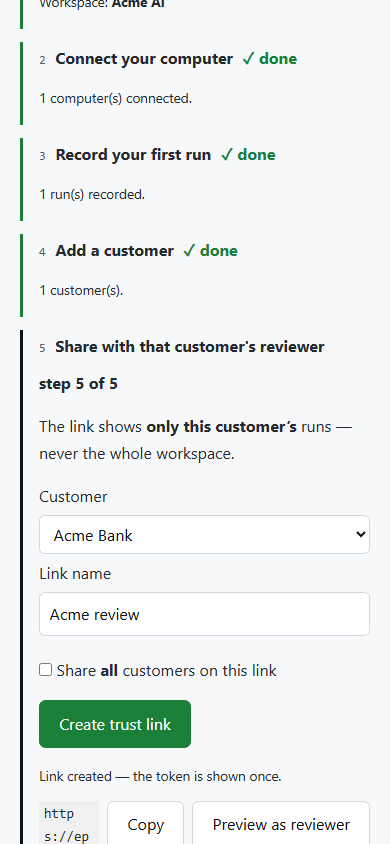
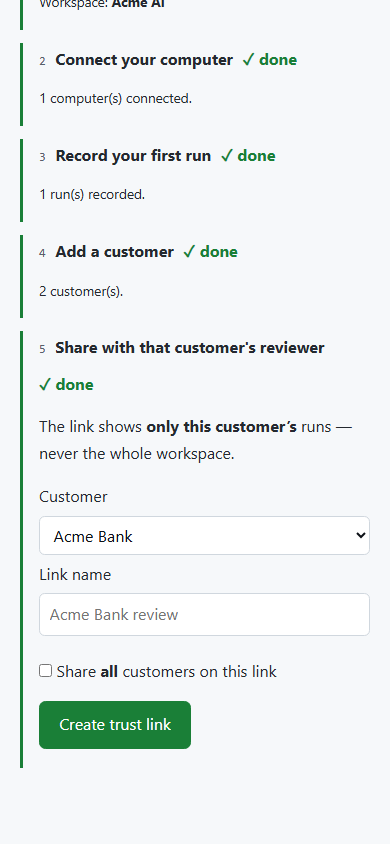
Dashboard v2: ack-gated #reveal panel outside render tree
Reviewer found the secret still vanished: the guide re-rendered to step 5
and wiped the secret; the test only caught a sub-second flash. Fix:

- Secrets/tokens render only into #reveal, a static panel outside #guide,
  #steps and the tab divs, so render() and loadAll() can never touch them.
- S.reveal holds the single unacknowledged secret; currentStep clamps the
  guide (step 4 for inbox, step 5 for link) while it is set, so polling
  and loadAll() cannot advance past it.
- 'I've saved it' is the only ack path: clears S.reveal and reloads.
- Same gate for inbox secret, rotate result, trust-link token, CI key.
- Guided browser test now asserts 12 s persistence with the next step
  absent (link form for inbox, dashboard for link), then acks and asserts
  advance. Covers rotate in the Customers tab the same way.

diff --git a/cloud/src/index.ts b/cloud/src/index.ts
@@ -98,6 +98,7 @@ app.get("/", async (c) => {
     `<p>Signed in as <strong>${esc(email)}</strong>.</p>` +
     `<form method="post" action="/auth/logout"><button type="submit" class="btn btn-sec">Sign out</button></form>` +
     `<p><label for="org-pick">Workspace</label><select id="org-pick"></select></p>` +
+    `<div id="reveal" style="display:none"></div>` +
     `<div id="loading"><p class="mut">Loading your workspaces…</p></div>` +
     `<div id="guide" style="display:none">` +
     `<span class="tag">Guided start</span><h2>Get set up in 5 steps</h2>` +
@@ -119,7 +120,7 @@ app.get("/", async (c) => {
     `</div>`;
   const script = [
     `var TRUST_ORIGIN=${JSON.stringify(TRUST_ORIGIN)};`,
-    `var S={orgs:[],org:null,agents:[],keys:null,runs:[],inboxes:[],links:null,linksForbidden:false,revealed:{}};`,
+    `var S={orgs:[],org:null,agents:[],keys:null,runs:[],inboxes:[],links:null,linksForbidden:false,reveal:null};`,
     `var timers=[];`,
     `function esc(s){return String(s==null?"":s).replace(/[&<>"']/g,function(ch){return {"&":"&amp;","<":"&lt;",">":"&gt;",'"':"&quot;","'":"&#39;"}[ch];});}`,
     `function localTime(iso){try{var d=new Date(iso);if(isNaN(d.getTime())){return iso;}return d.toLocaleString();}catch(e){return iso;}}`,
@@ -138,7 +139,8 @@ app.get("/", async (c) => {
     `document.getElementById("org-pick").onchange=function(){S.org=this.value||null;if(S.org){loadAll();}else{render();}};`,
     `function loadAll(){stopTimers();var id=S.org;Promise.all([api("/v1/orgs/"+id+"/agents"),api("/v1/orgs/"+id+"/api-keys"),api("/v1/orgs/"+id+"/artifacts"),api("/v1/orgs/"+id+"/inboxes"),api("/v1/orgs/"+id+"/share-links")]).then(function(rs){S.agents=(rs[0].ok&&rs[0].json.agents)||[];S.keys=rs[1].ok?(rs[1].json.keys||[]):(rs[1].status===403?"forbidden":null);S.runs=(rs[2].ok&&rs[2].json.artifacts)||[];S.inboxes=(rs[3].ok&&rs[3].json.inboxes)||[];if(rs[4].ok){S.links=rs[4].json.links||[];S.linksForbidden=false;}else{S.links=null;S.linksForbidden=rs[4].status===403;}render();});}`,
     `function milestones(){return {org:!!S.org,key:!!(S.keys&&S.keys.length),run:S.runs.length>0,customer:S.inboxes.length>0,link:!!(S.links&&S.links.length)};}`,
-    `function currentStep(m){if(!m.org){return 1;}if(!m.key){return 2;}if(!m.run){return 3;}if(!m.customer){return 4;}if(!m.link){return 5;}return 6;}`,
+    `function currentStep(m){var s=currentStepRaw(m);if(S.reveal){if(S.reveal.kind==="inbox"&&s>4){return 4;}if(S.reveal.kind==="link"&&s>5){return 5;}}return s;}`,
+    `function currentStepRaw(m){if(!m.org){return 1;}if(!m.key){return 2;}if(!m.run){return 3;}if(!m.customer){return 4;}if(!m.link){return 5;}return 6;}`,
     `function render(){stopTimers();var m=milestones();var step=currentStep(m);document.getElementById("loading").style.display="none";if(step>5){renderDash();return;}document.getElementById("dash").style.display="none";document.getElementById("guide").style.display="";renderGuide(m,step);}`,
     `function stepShell(n,title,state,inner){var mark=state==="done"?'<span class="mark done">\\u2713 done</span>':(state==="current"?'<span class="mark">step '+n+' of 5</span>':'<span class="mark">locked</span>');return '<div class="step '+state+'"><div class="stephead"><span class="stepnum">'+n+'</span><strong>'+title+'</strong>'+mark+'</div><div class="stepbody">'+inner+'</div></div>';}`,
     `function renderGuide(m,step){var h="";`,
@@ -165,27 +167,27 @@ app.get("/", async (c) => {
     `if(nm){var sl=byId("org-slug");var touched=false;sl.oninput=function(){touched=true;};nm.oninput=function(){if(!touched){sl.value=slugify(nm.value);}};byId("org-go").onclick=function(){createOrg(nm.value,sl.value||slugify(nm.value),byId("org-msg"));};}`,
     `var c1=byId("s2-c1b");if(c1){c1.onclick=function(){copyText(byId("s2-c1").textContent,byId("s2-msg"));};}`,
     `var c3=byId("s3-cb");if(c3){c3.onclick=function(){copyText(byId("s3-c").textContent,byId("s3-msg"));};}`,
-    `var cg=byId("cust-go");if(cg){cg.onclick=function(){var l=byId("cust-name").value.trim();if(!l){byId("cust-msg").textContent="Give the customer a name first.";return;}byId("cust-msg").textContent="Creating…";createCustomer(l,byId("cust-msg"),byId("cust-env"),function(){loadAllKeepSecret("cust-env","cust-msg");});};var _ce=byId("cust-env");if(_ce&&Object.keys(S.revealed||{}).length){_ce.innerHTML=revealedHtml();}}`,
-    `function loadAllKeepSecret(envId,msgId){var id=S.org;Promise.all([api("/v1/orgs/"+id+"/agents"),api("/v1/orgs/"+id+"/api-keys"),api("/v1/orgs/"+id+"/artifacts"),api("/v1/orgs/"+id+"/inboxes"),api("/v1/orgs/"+id+"/share-links")]).then(function(rs){S.agents=(rs[0].ok&&rs[0].json.agents)||[];S.keys=rs[1].ok?(rs[1].json.keys||[]):(rs[1].status===403?"forbidden":null);S.runs=(rs[2].ok&&rs[2].json.artifacts)||[];S.inboxes=(rs[3].ok&&rs[3].json.inboxes)||[];if(rs[4].ok){S.links=rs[4].json.links||[];S.linksForbidden=false;}else{S.links=null;S.linksForbidden=rs[4].status===403;}render();var e2=byId(envId);if(e2&&Object.keys(S.revealed||{}).length){e2.innerHTML=revealedHtml();}var m2=byId(msgId);if(m2&&Object.keys(S.revealed||{}).length&&!m2.textContent){m2.textContent="Customer added.";}});}`,
-    `var la=byId("link-all");if(la){la.onchange=function(){byId("link-warn").style.display=la.checked?"":"none";};}`,
+    `var cg=byId("cust-go");if(cg){cg.onclick=function(){var l=byId("cust-name").value.trim();if(!l){byId("cust-msg").textContent="Give the customer a name first.";return;}byId("cust-msg").textContent="Creating…";createCustomer(l,byId("cust-msg"),byId("cust-env"),function(){loadAll();});};}`,
+        `var la=byId("link-all");if(la){la.onchange=function(){byId("link-warn").style.display=la.checked?"":"none";};}`,
     `var lg=byId("link-go");if(lg){lg.onclick=function(){createLink(byId("link-cust").value,byId("link-label").value.trim(),byId("link-all").checked,byId("link-msg"),byId("link-out"),function(){loadAll();});};}`,
     `}`,
     `function createOrg(name,slug,msgEl){api("/v1/orgs",{method:"POST",body:{name:name,slug:slug}}).then(function(x){if(!x.ok){msgEl.textContent=friendlyErr("creating the workspace",x.status,x.json);return;}msgEl.textContent="Workspace created.";S.org=x.json.id;var pick=byId("org-pick");var el=document.createElement("option");el.value=x.json.id;el.textContent=x.json.name;pick.appendChild(el);pick.value=x.json.id;loadAll();});}`,
-    `function showSecret(outEl,inbox,label,msgEl){S.revealed[inbox.id]={url:inbox.url,secret:inbox.secret,label:label||inbox.id};outEl.innerHTML='<div class="warn small">Save this now — the secret is shown once, then never again.</div><p><label>Paste into the recorder\\u2019s environment</label></p><div class="copyrow"><code>EPI_WITNESS_URL='+esc(inbox.url)+'</code><button type="button" class="btn btn-sec" data-copy="url">Copy</button></div><div class="copyrow"><code>EPI_WITNESS_SECRET='+esc(inbox.secret)+'</code><button type="button" class="btn btn-sec" data-copy="secret">Copy</button></div>';var btns=outEl.querySelectorAll("button[data-copy]");btns[0].onclick=function(){copyText("EPI_WITNESS_URL="+inbox.url,msgEl);};btns[1].onclick=function(){copyText("EPI_WITNESS_SECRET="+inbox.secret,msgEl);};}`,
-    `function revealedHtml(){var ids=Object.keys(S.revealed||{});if(!ids.length){return "";}return ids.map(function(id){var r=S.revealed[id];return '<div class="warn small">Saved secret for <strong>'+esc(r.label||id)+'</strong> — shown once, kept on screen until you leave. Update EPI_WITNESS_SECRET everywhere that reports for this customer.</div><div class="copyrow"><code>EPI_WITNESS_URL='+esc(r.url)+'</code></div><div class="copyrow"><code>EPI_WITNESS_SECRET='+esc(r.secret)+'</code></div>';}).join("");}`,
-    `function createCustomer(label,msgEl,outEl,done){api("/v1/orgs/"+S.org+"/inboxes",{method:"POST",body:{customer_label:label}}).then(function(x){if(!x.ok){msgEl.textContent=friendlyErr("adding the customer",x.status,x.json);return null;}return x.json;}).then(function(inbox){if(!inbox){return;}ensureAgent(label).then(function(agent){if(!agent){msgEl.textContent="Inbox created, but the recorder name is taken by something else — ask an owner.";if(done){done();}return;}msgEl.textContent="Customer added.";showSecret(outEl,inbox,label,msgEl);api("/v1/orgs/"+S.org+"/inboxes").then(function(y){if(y.ok){S.inboxes=y.json.inboxes||[];}if(done){done();}renderRevealed(outEl);});});});}`,
-    `function renderRevealed(outEl){if(!outEl){return;}var ids=Object.keys(S.revealed||{});if(!ids.length){return;}var last=S.revealed[ids[ids.length-1]];if(!last){return;}if(outEl.innerHTML&&outEl.innerHTML.indexOf("EPI_WITNESS_SECRET=")>=0){return;}outEl.innerHTML='<div class="warn small">Save this now — the secret is shown once, then never again.</div><p><label>Paste into the recorder\\u2019s environment</label></p><div class="copyrow"><code>EPI_WITNESS_URL='+esc(last.url)+'</code></div><div class="copyrow"><code>EPI_WITNESS_SECRET='+esc(last.secret)+'</code></div>';}`,
-    `function rotateSecret(inboxId,label,msgEl,outEl){if(!confirm("Rotate witness secret for "+label+"? The old secret stops working immediately. Update \`EPI_WITNESS_SECRET\` on every machine that reports for this customer. Runs already witnessed stay valid.")){return;}msgEl.textContent="Rotating…";api("/v1/orgs/"+S.org+"/inboxes/"+inboxId+"/rotate",{method:"POST"}).then(function(x){if(!x.ok){msgEl.textContent=friendlyErr("rotating the secret",x.status,x.json);return;}msgEl.textContent="Rotated — old secret no longer works.";showSecret(outEl,x.json,label,msgEl);api("/v1/orgs/"+S.org+"/inboxes").then(function(y){if(y.ok){S.inboxes=y.json.inboxes||[];}renderCustomers();var fresh=document.getElementById("tab-rotate-out");if(fresh){showSecret(fresh,x.json,label,msgEl);}});});}`,
+    `function setReveal(obj){S.reveal=obj||null;renderReveal();}`,
+    `function renderReveal(){var box=document.getElementById("reveal");if(!box){return;}var r=S.reveal;if(!r){box.style.display="none";box.innerHTML="";return;}box.style.display="";var h="";if(r.kind==="inbox"){h+='<div class="warn small">Save this now \u2014 the secret is shown once, then never again.</div><p><label>Paste into the recorder\u2019s environment</label></p><div class="copyrow"><code>EPI_WITNESS_URL='+esc(r.url)+'</code><button type="button" class="btn btn-sec" data-c="url">Copy</button></div><div class="copyrow"><code>EPI_WITNESS_SECRET='+esc(r.secret)+'</code><button type="button" class="btn btn-sec" data-c="secret">Copy</button></div>';}else if(r.kind==="rotate"){h+='<div class="warn small">Rotated \u2014 old secret no longer works. Save the new secret now; it is shown once.</div><p><label>Paste into the recorder\u2019s environment</label></p><div class="copyrow"><code>EPI_WITNESS_URL='+esc(r.url)+'</code><button type="button" class="btn btn-sec" data-c="url">Copy</button></div><div class="copyrow"><code>EPI_WITNESS_SECRET='+esc(r.secret)+'</code><button type="button" class="btn btn-sec" data-c="secret">Copy</button></div>';}else if(r.kind==="link"){h+='<div class="warn small">Link created \u2014 the token is shown once, then never again.</div><div class="copyrow"><code>'+esc(r.url)+'</code><button type="button" class="btn btn-sec" data-c="url">Copy</button></div><p><a class="btn btn-sec" href="'+esc(r.url)+'" target="_blank" rel="noopener">Preview as reviewer</a></p>';}else if(r.kind==="key"){h+='<div class="warn small">Key created \u2014 shown once, copy it now.</div><div class="copyrow"><code>'+esc(r.secret)+'</code><button type="button" class="btn btn-sec" data-c="secret">Copy</button></div>';}h+='<p id="reveal-msg" class="small" role="status"></p><p><button id="reveal-ack" type="button" class="btn btn-pri">I\u2019ve saved it</button></p>';box.innerHTML=h;var cs=box.querySelectorAll("button[data-c]");for(var k=0;k<cs.length;k++){(function(b){b.onclick=function(){var what=b.getAttribute("data-c");var txt=what==="url"?("link"===r.kind?r.url:("key"===r.kind?r.secret:("EPI_WITNESS_URL="+r.url))):("key"===r.kind?r.secret:("EPI_WITNESS_SECRET="+r.secret));copyText(txt,document.getElementById("reveal-msg"));};})(cs[k]);}document.getElementById("reveal-ack").onclick=function(){ackReveal();};}`,
+    `function ackReveal(){S.reveal=null;renderReveal();loadAll();}`,
+    `function createCustomer(label,msgEl,outEl,done){api("/v1/orgs/"+S.org+"/inboxes",{method:"POST",body:{customer_label:label}}).then(function(x){if(!x.ok){msgEl.textContent=friendlyErr("adding the customer",x.status,x.json);return null;}return x.json;}).then(function(inbox){if(!inbox){return;}ensureAgent(label).then(function(agent){if(!agent){msgEl.textContent="Inbox created, but the recorder name is taken by something else \u2014 ask an owner.";if(done){done();}return;}msgEl.textContent="Customer added. Secret shown above \u2014 copy it, then click I\u2019ve saved it.";setReveal({kind:"inbox",id:inbox.id,url:inbox.url,secret:inbox.secret,label:label});if(done){done();}});});}`,
+    `function rotateSecret(inboxId,label,msgEl){if(!confirm("Rotate witness secret for "+label+"? The old secret stops working immediately. Update \`EPI_WITNESS_SECRET\` on every machine that reports for this customer. Runs already witnessed stay valid.")){return;}msgEl.textContent="Rotating\u2026";api("/v1/orgs/"+S.org+"/inboxes/"+inboxId+"/rotate",{method:"POST"}).then(function(x){if(!x.ok){msgEl.textContent=friendlyErr("rotating the secret",x.status,x.json);return;}msgEl.textContent="Rotated \u2014 old secret no longer works. New secret shown above.";setReveal({kind:"rotate",id:x.json.id,url:x.json.url,secret:x.json.secret,label:label});loadAll();});}`,
+
 
     `function ensureAgent(label){return api("/v1/orgs/"+S.org+"/agents",{method:"POST",body:{name:label}}).then(function(x){if(x.ok){return x.json;}if(x.status===409){return api("/v1/orgs/"+S.org+"/agents").then(function(y){if(!y.ok){return null;}var f=(y.json.agents||[]).filter(function(a){return a.name===label;})[0];return f||null;});}return null;});}`,
-    `function createLink(inboxId,label,all,msgEl,outEl,done){var agents=(S.agents||[]);var agent=null;if(!all){var inb=(S.inboxes||[]).filter(function(b){return b.id===inboxId;})[0];var want=inb?inb.customer_label:"";agent=agents.filter(function(a){return a.name===want;})[0];if(!agent){msgEl.textContent="No recorder named \\u201C"+want+"\\u201D yet — add the customer again, or tick all-customers.";return;}}var scope=all?{agents:"all",inboxes:"all"}:{agents:[agent.id],inboxes:[inboxId]};var name=label||((all?"Workspace":inboxLabel(inboxId))+" review");msgEl.textContent="Creating…";api("/v1/orgs/"+S.org+"/share-links",{method:"POST",body:{label:name,scope:scope}}).then(function(x){if(!x.ok){msgEl.textContent=friendlyErr("creating the link",x.status,x.json);return;}var url=TRUST_ORIGIN+"/t/"+x.json.id+"#k="+x.json.token;msgEl.textContent="Link created — the token is shown once.";outEl.innerHTML="";var row=document.createElement("div");row.className="copyrow";var code=document.createElement("code");code.textContent=url;row.appendChild(code);var cp=document.createElement("button");cp.type="button";cp.className="btn btn-sec";cp.textContent="Copy";cp.onclick=function(){copyText(url,msgEl);};row.appendChild(cp);var pv=document.createElement("a");pv.className="btn btn-sec";pv.textContent="Preview as reviewer";pv.href=url;pv.target="_blank";pv.rel="noopener";row.appendChild(pv);outEl.appendChild(row);done();});}`,
+    `function createLink(inboxId,label,all,msgEl,outEl,done){var agents=(S.agents||[]);var agent=null;if(!all){var inb=(S.inboxes||[]).filter(function(b){return b.id===inboxId;})[0];var want=inb?inb.customer_label:"";agent=agents.filter(function(a){return a.name===want;})[0];if(!agent){msgEl.textContent="No recorder named \\u201C"+want+"\\u201D yet — add the customer again, or tick all-customers.";return;}}var scope=all?{agents:"all",inboxes:"all"}:{agents:[agent.id],inboxes:[inboxId]};var name=label||((all?"Workspace":inboxLabel(inboxId))+" review");msgEl.textContent="Creating…";api("/v1/orgs/"+S.org+"/share-links",{method:"POST",body:{label:name,scope:scope}}).then(function(x){if(!x.ok){msgEl.textContent=friendlyErr("creating the link",x.status,x.json);return;}var url=TRUST_ORIGIN+"/t/"+x.json.id+"#k="+x.json.token;msgEl.textContent="Link created. Token shown above \u2014 copy it, then click I\u2019ve saved it.";setReveal({kind:"link",url:url,label:name});done();});}`,
     `function renderDash(){document.getElementById("guide").style.display="none";var d=document.getElementById("dash");d.style.display="";renderRuns();renderCustomers();renderLinks();renderKeys();}`,
     `document.querySelectorAll("button.tab").forEach(function(b){b.onclick=function(){document.querySelectorAll("button.tab").forEach(function(x){x.classList.remove("active");});b.classList.add("active");["runs","customers","links","keys"].forEach(function(t){document.getElementById("tab-"+t).style.display=(t===b.getAttribute("data-tab"))?"":"none";});};});`,
     `function emptyRow(cols,msg){return '<tr><td colspan="'+cols+'">'+msg+'</td></tr>';}`,
     `function renderRuns(){var el=document.getElementById("tab-runs");var rows=(S.runs||[]).map(function(r){var cust=(r.agent_id&&agentName(r.agent_id))||"Unassigned";return '<tr><td>'+esc(r.goal||r.workflow_id||r.id)+'</td><td>'+sealBadge(r.signature_check)+'</td><td>'+witBadge(r.witness_status)+'</td><td>'+esc(cust)+'</td><td class="small">'+esc(localTime(r.uploaded_at||r.sealed_at||""))+'</td></tr>';}).join("");el.innerHTML='<h3>Runs</h3><p class="small mut">Every selected run pushed to this workspace. Runs land under \\u201CUnassigned\\u201D until you push with a customer\\u2019s recorder name (<code>--agent</code>).</p><div class="twrap"><table class="tbl"><thead><tr><th>Run</th><th>Seal</th><th>Witness</th><th>Customer</th><th>Pushed</th></tr></thead><tbody>'+(rows||emptyRow(5,"No runs yet — record your first run (guided step 3)."))+'</tbody></table></div>';}`,
-    `function renderCustomers(){var el=document.getElementById("tab-customers");var rows=(S.inboxes||[]).map(function(b){var n=runsForCustomer(b.customer_label).length;var st=b.closed_at?'<span class="pill">Closed</span>':'<span class="pill ok">Open</span>';var btn=b.closed_at?"":' <button type="button" class="btn btn-sec" data-close="'+esc(b.id)+'">Close</button>';var rot=b.closed_at?"":' <button type="button" class="btn btn-sec" data-rotate="'+esc(b.id)+'" data-label="'+esc(b.customer_label)+'">Rotate secret</button>';return '<tr><td>'+esc(b.customer_label)+'</td><td class="small">'+esc(b.id)+'</td><td>'+n+'</td><td class="small">'+esc(localTime(b.created_at))+'</td><td>'+st+btn+rot+'</td></tr>';}).join("");el.innerHTML='<h3>Customers</h3><p class="small mut">One witness inbox per customer. Closing stops new reports to that inbox.</p><div class="twrap"><table class="tbl"><thead><tr><th>Customer</th><th>Inbox</th><th>Runs</th><th>Added</th><th>Status</th></tr></thead><tbody>'+(rows||emptyRow(5,"No customers yet — add one below."))+'</tbody></table></div><div class="card" id="tab-rotate-card"><strong>Rotate a witness secret</strong><p class="small mut">If a secret leaked, rotate it. The old secret stops working immediately — already witnessed runs stay valid.</p><p id="tab-rotate-msg" class="small" role="status"></p><div id="tab-rotate-out"></div></div><div class="card"><strong>Add a customer</strong><br><label for="tab-cust-name">Customer name</label><input id="tab-cust-name" placeholder="Acme Bank"><p><button id="tab-cust-go" type="button" class="btn btn-pri">Add customer</button></p><p id="tab-cust-msg" class="small" role="status"></p><div id="tab-cust-env"></div></div>';el.querySelectorAll("button[data-close]").forEach(function(btn){btn.onclick=function(){if(!confirm("Close this inbox? Recorders can no longer report to it.")){return;}api("/v1/orgs/"+S.org+"/inboxes/"+btn.getAttribute("data-close")+"/close",{method:"POST"}).then(function(x){if(!x.ok){alert(friendlyErr("closing the inbox",x.status,x.json));return;}loadAll();});};});el.querySelectorAll("button[data-rotate]").forEach(function(btn){btn.onclick=function(){rotateSecret(btn.getAttribute("data-rotate"),btn.getAttribute("data-label")||btn.getAttribute("data-rotate"),document.getElementById("tab-rotate-msg"),document.getElementById("tab-rotate-out"));};});document.getElementById("tab-cust-go").onclick=function(){var l=document.getElementById("tab-cust-name").value.trim();if(!l){document.getElementById("tab-cust-msg").textContent="Give the customer a name first.";return;}createCustomer(l,document.getElementById("tab-cust-msg"),document.getElementById("tab-cust-env"),function(){loadAllKeepSecret("tab-cust-env","tab-cust-msg");});};var _te=document.getElementById("tab-cust-env");if(_te&&Object.keys(S.revealed||{}).length&&!_te.innerHTML){_te.innerHTML=revealedHtml();}var _ro=document.getElementById("tab-rotate-out");if(_ro&&Object.keys(S.revealed||{}).length&&!_ro.innerHTML){_ro.innerHTML=revealedHtml();}}`,
+    `function renderCustomers(){var el=document.getElementById("tab-customers");var rows=(S.inboxes||[]).map(function(b){var n=runsForCustomer(b.customer_label).length;var st=b.closed_at?'<span class="pill">Closed</span>':'<span class="pill ok">Open</span>';var btn=b.closed_at?"":' <button type="button" class="btn btn-sec" data-close="'+esc(b.id)+'">Close</button>';var rot=b.closed_at?"":' <button type="button" class="btn btn-sec" data-rotate="'+esc(b.id)+'" data-label="'+esc(b.customer_label)+'">Rotate secret</button>';return '<tr><td>'+esc(b.customer_label)+'</td><td class="small">'+esc(b.id)+'</td><td>'+n+'</td><td class="small">'+esc(localTime(b.created_at))+'</td><td>'+st+btn+rot+'</td></tr>';}).join("");el.innerHTML='<h3>Customers</h3><p class="small mut">One witness inbox per customer. Closing stops new reports to that inbox.</p><div class="twrap"><table class="tbl"><thead><tr><th>Customer</th><th>Inbox</th><th>Runs</th><th>Added</th><th>Status</th></tr></thead><tbody>'+(rows||emptyRow(5,"No customers yet — add one below."))+'</tbody></table></div><div class="card" id="tab-rotate-card"><strong>Rotate a witness secret</strong><p class="small mut">If a secret leaked, rotate it. The old secret stops working immediately — already witnessed runs stay valid.</p><p id="tab-rotate-msg" class="small" role="status"></p><div id="tab-rotate-out"></div></div><div class="card"><strong>Add a customer</strong><br><label for="tab-cust-name">Customer name</label><input id="tab-cust-name" placeholder="Acme Bank"><p><button id="tab-cust-go" type="button" class="btn btn-pri">Add customer</button></p><p id="tab-cust-msg" class="small" role="status"></p><div id="tab-cust-env"></div></div>';el.querySelectorAll("button[data-close]").forEach(function(btn){btn.onclick=function(){if(!confirm("Close this inbox? Recorders can no longer report to it.")){return;}api("/v1/orgs/"+S.org+"/inboxes/"+btn.getAttribute("data-close")+"/close",{method:"POST"}).then(function(x){if(!x.ok){alert(friendlyErr("closing the inbox",x.status,x.json));return;}loadAll();});};});el.querySelectorAll("button[data-rotate]").forEach(function(btn){btn.onclick=function(){rotateSecret(btn.getAttribute("data-rotate"),btn.getAttribute("data-label")||btn.getAttribute("data-rotate"),document.getElementById("tab-rotate-msg"));};});document.getElementById("tab-cust-go").onclick=function(){var l=document.getElementById("tab-cust-name").value.trim();if(!l){document.getElementById("tab-cust-msg").textContent="Give the customer a name first.";return;}createCustomer(l,document.getElementById("tab-cust-msg"),document.getElementById("tab-cust-env"),function(){loadAll();});};}`,
     `function renderLinks(){var el=document.getElementById("tab-links");function forNames(scope){var s=scopeNames(scope);return esc(s.inboxes.join(", "));}var rows=(S.links||[]).map(function(l){var scope={};try{scope=JSON.parse(l.scope);}catch(e){scope={agents:"all",inboxes:"all"};}var exp=localTime(l.expires_at);var st=l.revoked_at?'<span class="pill bad">Revoked</span>':'<span class="pill ok">Live</span>';var btn=l.revoked_at?"":' <button type="button" class="btn btn-sec" data-revoke="'+esc(l.id)+'">Revoke</button>';return '<tr data-link="'+esc(l.id)+'"><td>'+esc(l.label)+'</td><td>'+forNames(scope)+'</td><td class="small">'+esc(exp)+'</td><td class="small ev">Loading activity…</td><td>'+st+btn+'</td></tr>';}).join("");el.innerHTML='<h3>Trust links</h3><p class="small mut">Each link opens the reviewer trust page. Links are scoped to one customer unless you tick all-customers.</p><div class="twrap"><table class="tbl"><thead><tr><th>Link</th><th>For</th><th>Expires</th><th>Activity</th><th>Status</th></tr></thead><tbody>'+(rows||emptyRow(5,"No trust links yet — create one for a customer."))+'</tbody></table></div><div class="card"><strong>New trust link</strong><br><label for="tab-link-cust">Customer</label><select id="tab-link-cust">'+(S.inboxes||[]).filter(function(b){return !b.closed_at;}).map(function(b){return '<option value="'+esc(b.id)+'">'+esc(b.customer_label)+'</option>';}).join("")+'</select><label for="tab-link-label">Link name</label><input id="tab-link-label" placeholder="Acme Bank review"><p><label><input type="checkbox" id="tab-link-all" style="width:auto"> Share <strong>all</strong> customers on this link</label></p><div id="tab-link-warn" class="warn small" style="display:none">Warning: anyone with this link sees every customer\\u2019s runs. Only use this for internal review.</div><p><button id="tab-link-go" type="button" class="btn btn-pri">Create trust link</button></p><p id="tab-link-msg" class="small" role="status"></p><div id="tab-link-out"></div></div>';el.querySelectorAll("button[data-revoke]").forEach(function(btn){btn.onclick=function(){if(!confirm("Revoke this link? Reviewers immediately lose access.")){return;}api("/v1/orgs/"+S.org+"/share-links/"+btn.getAttribute("data-revoke"),{method:"DELETE"}).then(function(x){if(!x.ok){alert(friendlyErr("revoking the link",x.status,x.json));return;}loadAll();});};});(S.links||[]).forEach(function(l){if(l.revoked_at){var cell0=el.querySelector('tr[data-link="'+l.id+'"] .ev');if(cell0){cell0.textContent="\\u2014";}return;}api("/v1/orgs/"+S.org+"/share-links/"+l.id+"/events").then(function(x){var cell=el.querySelector('tr[data-link="'+l.id+'"] .ev');if(!cell){return;}if(!x.ok){cell.textContent="\\u2014";return;}var kinds={};(x.json.events||[]).forEach(function(e){kinds[e.kind]=(kinds[e.kind]||0)+1;});var parts=[];if(kinds.opened){parts.push(kinds.opened+" opened");}if(kinds.verified_file){parts.push(kinds.verified_file+" verified");}if(kinds.downloaded_pack||kinds.downloaded_witness){parts.push(((kinds.downloaded_pack||0)+(kinds.downloaded_witness||0))+" downloaded");}cell.textContent=parts.join(" \\u00B7 ")||"Not opened yet";});});var ta=document.getElementById("tab-link-all");if(ta){ta.onchange=function(){document.getElementById("tab-link-warn").style.display=ta.checked?"":"none";};}document.getElementById("tab-link-go").onclick=function(){createLink(document.getElementById("tab-link-cust").value,document.getElementById("tab-link-label").value.trim(),document.getElementById("tab-link-all").checked,document.getElementById("tab-link-msg"),document.getElementById("tab-link-out"),function(){loadAll();});};}`,
-    `function renderKeys(){var el=document.getElementById("tab-keys");if(S.keys==="forbidden"||S.keys===null){el.innerHTML='<h3>Computers &amp; keys</h3><p class="warn">Only workspace owners can see computers and keys — ask an owner.</p>';return;}var rows=(S.keys||[]).map(function(k){var name=k.label||("\\u2026"+k.prefix);var btn=k.revoked_at?"":' <button type="button" class="btn btn-sec" data-revkey="'+esc(k.id)+'">Revoke</button>';var st=k.revoked_at?'<span class="pill bad">Revoked</span>':'<span class="pill ok">Live</span>';var last=k.last_used_at?localTime(k.last_used_at):"Never used";return '<tr><td>'+esc(name)+'</td><td class="small">'+esc(k.scopes)+'</td><td class="small">'+esc(localTime(k.created_at))+'</td><td class="small">'+esc(last)+'</td><td>'+st+btn+'</td></tr>';}).join("");el.innerHTML='<h3>Computers &amp; keys</h3><p class="small mut">Each connected computer holds a push-only key. Revoking cuts it off immediately.</p><div class="twrap"><table class="tbl"><thead><tr><th>Computer / key</th><th>Scopes</th><th>Added</th><th>Last used</th><th>Status</th></tr></thead><tbody>'+(rows||emptyRow(5,"No computers connected yet — finish guided step 2."))+'</tbody></table></div><details class="adv"><summary>Advanced: CI/automation key</summary><p class="small mut">For scripts and CI that cannot do the browser step. Raw keys are shown once.</p><label for="adv-label">Label</label><input id="adv-label" placeholder="ci-runner"><p><label><input type="checkbox" id="adv-push" checked style="width:auto"> push</label> <label><input type="checkbox" id="adv-read" style="width:auto"> read</label></p><p><button id="adv-go" type="button" class="btn btn-sec">Create automation key</button></p><p id="adv-msg" class="small" role="status"></p><div id="adv-out"></div><p class="small mut">Flag version for automation:</p><pre class="cmd" id="adv-cmd"></pre></details>';el.querySelectorAll("button[data-revkey]").forEach(function(btn){btn.onclick=function(){if(!confirm("Revoke this key? That computer immediately loses access.")){return;}api("/v1/orgs/"+S.org+"/api-keys/"+btn.getAttribute("data-revkey"),{method:"DELETE"}).then(function(x){if(!x.ok){alert(friendlyErr("revoking the key",x.status,x.json));return;}loadAll();});};});document.getElementById("adv-cmd").textContent="epi cloud login --url "+location.origin+" --org "+S.org+" --api-key <paste-key>";document.getElementById("adv-go").onclick=function(){var scopes=[];if(document.getElementById("adv-push").checked){scopes.push("push");}if(document.getElementById("adv-read").checked){scopes.push("read");}if(!scopes.length){document.getElementById("adv-msg").textContent="Pick at least one scope.";return;}var label=document.getElementById("adv-label").value.trim()||null;api("/v1/orgs/"+S.org+"/api-keys",{method:"POST",body:{scopes:scopes,label:label}}).then(function(x){var out=document.getElementById("adv-out");if(!x.ok){document.getElementById("adv-msg").textContent=friendlyErr("creating the key",x.status,x.json);return;}document.getElementById("adv-msg").textContent="Key created — shown once, copy it now:";out.innerHTML="";var row=document.createElement("div");row.className="copyrow";var code=document.createElement("code");code.textContent=x.json.key;row.appendChild(code);var cp=document.createElement("button");cp.type="button";cp.className="btn btn-sec";cp.textContent="Copy";cp.onclick=function(){copyText(x.json.key,document.getElementById("adv-msg"));};row.appendChild(cp);out.appendChild(row);loadAll();});};}`,
+    `function renderKeys(){var el=document.getElementById("tab-keys");if(S.keys==="forbidden"||S.keys===null){el.innerHTML='<h3>Computers &amp; keys</h3><p class="warn">Only workspace owners can see computers and keys — ask an owner.</p>';return;}var rows=(S.keys||[]).map(function(k){var name=k.label||("\\u2026"+k.prefix);var btn=k.revoked_at?"":' <button type="button" class="btn btn-sec" data-revkey="'+esc(k.id)+'">Revoke</button>';var st=k.revoked_at?'<span class="pill bad">Revoked</span>':'<span class="pill ok">Live</span>';var last=k.last_used_at?localTime(k.last_used_at):"Never used";return '<tr><td>'+esc(name)+'</td><td class="small">'+esc(k.scopes)+'</td><td class="small">'+esc(localTime(k.created_at))+'</td><td class="small">'+esc(last)+'</td><td>'+st+btn+'</td></tr>';}).join("");el.innerHTML='<h3>Computers &amp; keys</h3><p class="small mut">Each connected computer holds a push-only key. Revoking cuts it off immediately.</p><div class="twrap"><table class="tbl"><thead><tr><th>Computer / key</th><th>Scopes</th><th>Added</th><th>Last used</th><th>Status</th></tr></thead><tbody>'+(rows||emptyRow(5,"No computers connected yet — finish guided step 2."))+'</tbody></table></div><details class="adv"><summary>Advanced: CI/automation key</summary><p class="small mut">For scripts and CI that cannot do the browser step. Raw keys are shown once.</p><label for="adv-label">Label</label><input id="adv-label" placeholder="ci-runner"><p><label><input type="checkbox" id="adv-push" checked style="width:auto"> push</label> <label><input type="checkbox" id="adv-read" style="width:auto"> read</label></p><p><button id="adv-go" type="button" class="btn btn-sec">Create automation key</button></p><p id="adv-msg" class="small" role="status"></p><div id="adv-out"></div><p class="small mut">Flag version for automation:</p><pre class="cmd" id="adv-cmd"></pre></details>';el.querySelectorAll("button[data-revkey]").forEach(function(btn){btn.onclick=function(){if(!confirm("Revoke this key? That computer immediately loses access.")){return;}api("/v1/orgs/"+S.org+"/api-keys/"+btn.getAttribute("data-revkey"),{method:"DELETE"}).then(function(x){if(!x.ok){alert(friendlyErr("revoking the key",x.status,x.json));return;}loadAll();});};});document.getElementById("adv-cmd").textContent="epi cloud login --url "+location.origin+" --org "+S.org+" --api-key <paste-key>";document.getElementById("adv-go").onclick=function(){var scopes=[];if(document.getElementById("adv-push").checked){scopes.push("push");}if(document.getElementById("adv-read").checked){scopes.push("read");}if(!scopes.length){document.getElementById("adv-msg").textContent="Pick at least one scope.";return;}var label=document.getElementById("adv-label").value.trim()||null;api("/v1/orgs/"+S.org+"/api-keys",{method:"POST",body:{scopes:scopes,label:label}}).then(function(x){if(!x.ok){document.getElementById("adv-msg").textContent=friendlyErr("creating the key",x.status,x.json);return;}document.getElementById("adv-msg").textContent="Key created. Raw key shown above \u2014 copy it, then click I\u2019ve saved it.";setReveal({kind:"key",secret:x.json.key,label:label||x.json.id||"automation key"});loadAll();});};}`,
     `boot();`,
   ].join("\n");
   return c.html(

diff --git a/tests/test_dashboard_guided.py b/tests/test_dashboard_guided.py
@@ -49,8 +49,13 @@ def _npx() -> str:
 def _wrangler(*args: str, persist: Path) -> None:
     cmd = [_npx(), "wrangler", *args, "--persist-to", str(persist), "--config", "wrangler.toml"]
     proc = subprocess.run(
-        cmd, cwd=str(CLOUD), capture_output=True, text=True, timeout=300,
-        encoding="utf-8", errors="replace",
+        cmd,
+        cwd=str(CLOUD),
+        capture_output=True,
+        text=True,
+        timeout=300,
+        encoding="utf-8",
+        errors="replace",
     )
     assert proc.returncode == 0, f"wrangler {' '.join(args)} failed:\n{proc.stdout}\n{proc.stderr}"
 
@@ -244,37 +249,58 @@ def test_guided_flow_on_phone(cloud, browser, tmp_path) -> None:
         pg.reload()
         pg.wait_for_selector("text=Add a customer", timeout=15000)
 
-        # Step 4: add the customer, keep the env lines.
+        # Step 4: add the customer. The secret must stay on screen in the
+        # persistent #reveal panel until the user clicks "I've saved it" —
+        # polling/loadAll must not advance past an unacknowledged secret.
         # API first (exact status in the log pinpoints server vs UI).
-        st, probe = _api(base, "POST", f"/v1/orgs/{org_id}/inboxes", cookie, {"customer_label": "Probe Bank"})
+        st, probe = _api(
+            base, "POST", f"/v1/orgs/{org_id}/inboxes", cookie, {"customer_label": "Probe Bank"}
+        )
         assert st == 201, (st, probe)
         st, _ = _api(base, "POST", f"/v1/orgs/{org_id}/inboxes/{probe['id']}/close", cookie)
         assert st == 200, st
         pg.fill("#cust-name", "Acme Bank")
         pg.click("#cust-go")
         try:
-            pg.wait_for_selector("text=EPI_WITNESS_SECRET=", timeout=15000)
+            pg.wait_for_selector("#reveal >> text=EPI_WITNESS_SECRET=", timeout=15000)
         except Exception:
             msg = pg.locator("#cust-msg").text_content()
             raise AssertionError(f"customer UI failed, msg={msg!r}")
+        # The secret must persist (not a sub-second flash): visible for 12 s
+        # while the guide stays on step 4 (step 5 must NOT appear yet).
+        secret_sel = "#reveal >> text=EPI_WITNESS_SECRET="
+        for _ in range(12):
+            assert pg.locator(secret_sel).is_visible(), "secret vanished before ack"
+            assert pg.locator("#link-go").count() == 0, "guide advanced past unacked secret"
+            pg.wait_for_timeout(1000)
         pg.screenshot(path=str(SHOTS / "03-customer.png"))
         _no_overflow(pg)
-        pg.reload()
-        pg.wait_for_selector("text=Share with that", timeout=15000)
+        # Ack is the ONLY thing that advances the guide.
+        pg.click("#reveal-ack")
+        pg.wait_for_selector("#link-go", timeout=15000)
+        assert not pg.locator("#reveal >> text=EPI_WITNESS_SECRET=").is_visible()
 
-        # Step 5: trust link scoped to that customer only.
+        # Step 5: trust link scoped to that customer only. Same ack gate:
+        # the token stays in #reveal for 12 s, dashboard must not appear.
         pg.select_option("#link-cust", label="Acme Bank")
         pg.fill("#link-label", "Acme review")
         assert not pg.locator("#link-all").is_checked()
         pg.click("#link-go")
-        pg.wait_for_selector("text=Preview as reviewer", timeout=15000)
-        href = pg.locator("text=Preview as reviewer").get_attribute("href")
+        pg.wait_for_selector("#reveal >> text=Preview as reviewer", timeout=15000)
+        href = pg.locator("#reveal >> text=Preview as reviewer").get_attribute("href")
         assert href and href.startswith("https://epilabs.org/t/"), href
+        link_sel = "#reveal >> text=Preview as reviewer"
+        for _ in range(12):
+            assert pg.locator(link_sel).is_visible(), "link token vanished before ack"
+            no_dash = pg.locator("text=Your evidence").is_visible()
+            assert not no_dash, "dashboard appeared past unacked link"
+            pg.wait_for_timeout(1000)
         pg.screenshot(path=str(SHOTS / "04-link.png"))
         _no_overflow(pg)
+        pg.click("#reveal-ack")
+        pg.wait_for_selector("text=Your evidence", timeout=15000)
 
         # Dashboard tabs after setup (tab content loads async — wait for it).
-        pg.reload()
         pg.wait_for_selector("button.tab:text-is('Computers & keys')", timeout=15000)
         pg.click("button.tab:text-is('Computers & keys')")
         pg.wait_for_selector("text=e2e-laptop", timeout=15000)
@@ -286,6 +312,21 @@ def test_guided_flow_on_phone(cloud, browser, tmp_path) -> None:
         assert pg.locator("#tab-customers >> text=Acme Bank").is_visible()
         pg.click("button.tab:text-is('Trust links')")
         assert pg.locator("#tab-links >> text=Acme review").is_visible()
+
+        # Rotate: the new secret obeys the same ack gate (12 s in #reveal).
+        pg.click("button.tab:text-is('Customers')")
+        pg.wait_for_selector("button[data-rotate]", timeout=15000)
+        pg.on("dialog", lambda d: d.accept())
+        pg.click("button[data-rotate]")
+        pg.wait_for_selector("#reveal >> text=EPI_WITNESS_SECRET=", timeout=15000)
+        for _ in range(12):
+            assert pg.locator(secret_sel).is_visible(), "rotated secret vanished before ack"
+            pg.wait_for_timeout(1000)
+        pg.screenshot(path=str(SHOTS / "06-rotate.png"))
+        _no_overflow(pg)
+        pg.click("#reveal-ack")
+        assert not pg.locator("#reveal >> text=EPI_WITNESS_SECRET=").is_visible()
+
         pg.click("button.tab:text-is('Runs')")
         pg.screenshot(path=str(SHOTS / "05-dashboard.png"))
         _no_overflow(pg)
